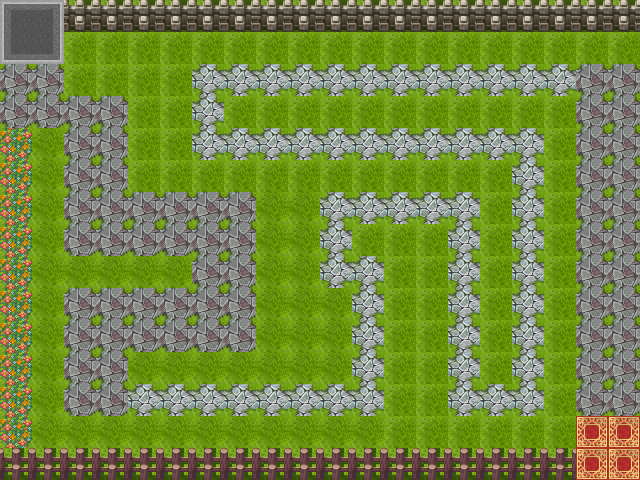
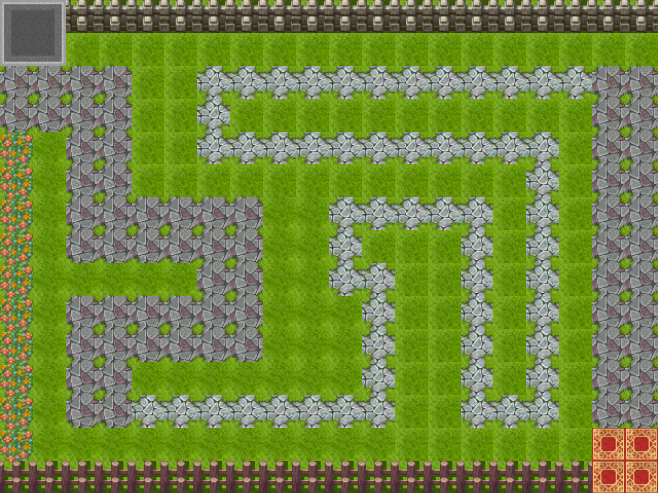
everythn

diff --git a/main.js b/main.js
@@ -1,3 +1,5 @@
+var FPS=60
+
 var bgImg= document.createElement("img");
 var enemyImg= document.createElement("img");
 var buttonImg= document.createElement("img");
@@ -15,20 +17,32 @@ var ctx= canvas.getContext("2d");
 
 
 function draw (){
-  ctx.drawImage(bgImg,0,0);
+  ctx.drawImage(bgImg,0,0,640,480);
   ctx.drawImage(enemyImg,enemy.x,enemy.y);
-  ctx.drawImage(buttonImg,button.x,button.y,100,100);
-  }
-setInterval (draw, 16)
-
+  enemy.move();
+  ctx.drawImage(buttonImg,button.x,button.y,64,64);
+  if (isBuilding==true){
+    ctx.drawImage(cursorImg,tower.x,tower.y);
+  }else{
+    ctx.drawImage(cursorImg,cursor.x,cursor.y);
+   }
+}
+setInterval (draw, 1000/FPS)
 
 var enemy={
-  x:90,
-  y:480-32
+  x:0,
+  y:32,
+  speedX:0,
+  speedY:64,
+  move:function(){
+    this.x=this.x+this.speedX/FPS;
+    this.y=this.y+this.speedY/FPS
+  }
 }
+
  var button={
-   x:540,
-   y:380
+   x:640-64,
+   y:480-64,
  }
  var cursor={
    x:200,
@@ -47,30 +61,17 @@ var isBuilding= false
 $("#game-canvas").on("click", approve)
 
 function approve (event){
-  if (cursor.x>540 && cursor.y>380){
+  if (cursor.x>586 && cursor.y>416){
     isBuilding= true;
-}else{
-  isBuilding=false;
-}
-}
-
-
-function repeat (){
-  if (isBuilding==true){
-  ctx.drawImage(cursorImg,cursor.x,cursor.y);
-}
-setInterval(repeat, 16)
-
-
-$("#game-canvas").on("click", build)
-
-function build (){
-  if (isBuilding==true){
-    var position= {
-      x:event.offsetX,
-      y:event.offsetY
-    }
-    ctx.drawImage(cursorImg,position.x,position.y);
-    isBuilding=false
+  }else{
+  if(isBuilding=true){
+    tower.x=cursor.x;
+    tower.y=cursor.y;
   }
+   }
+}
+
+var tower={
+  x:0,
+  y:0
 }
